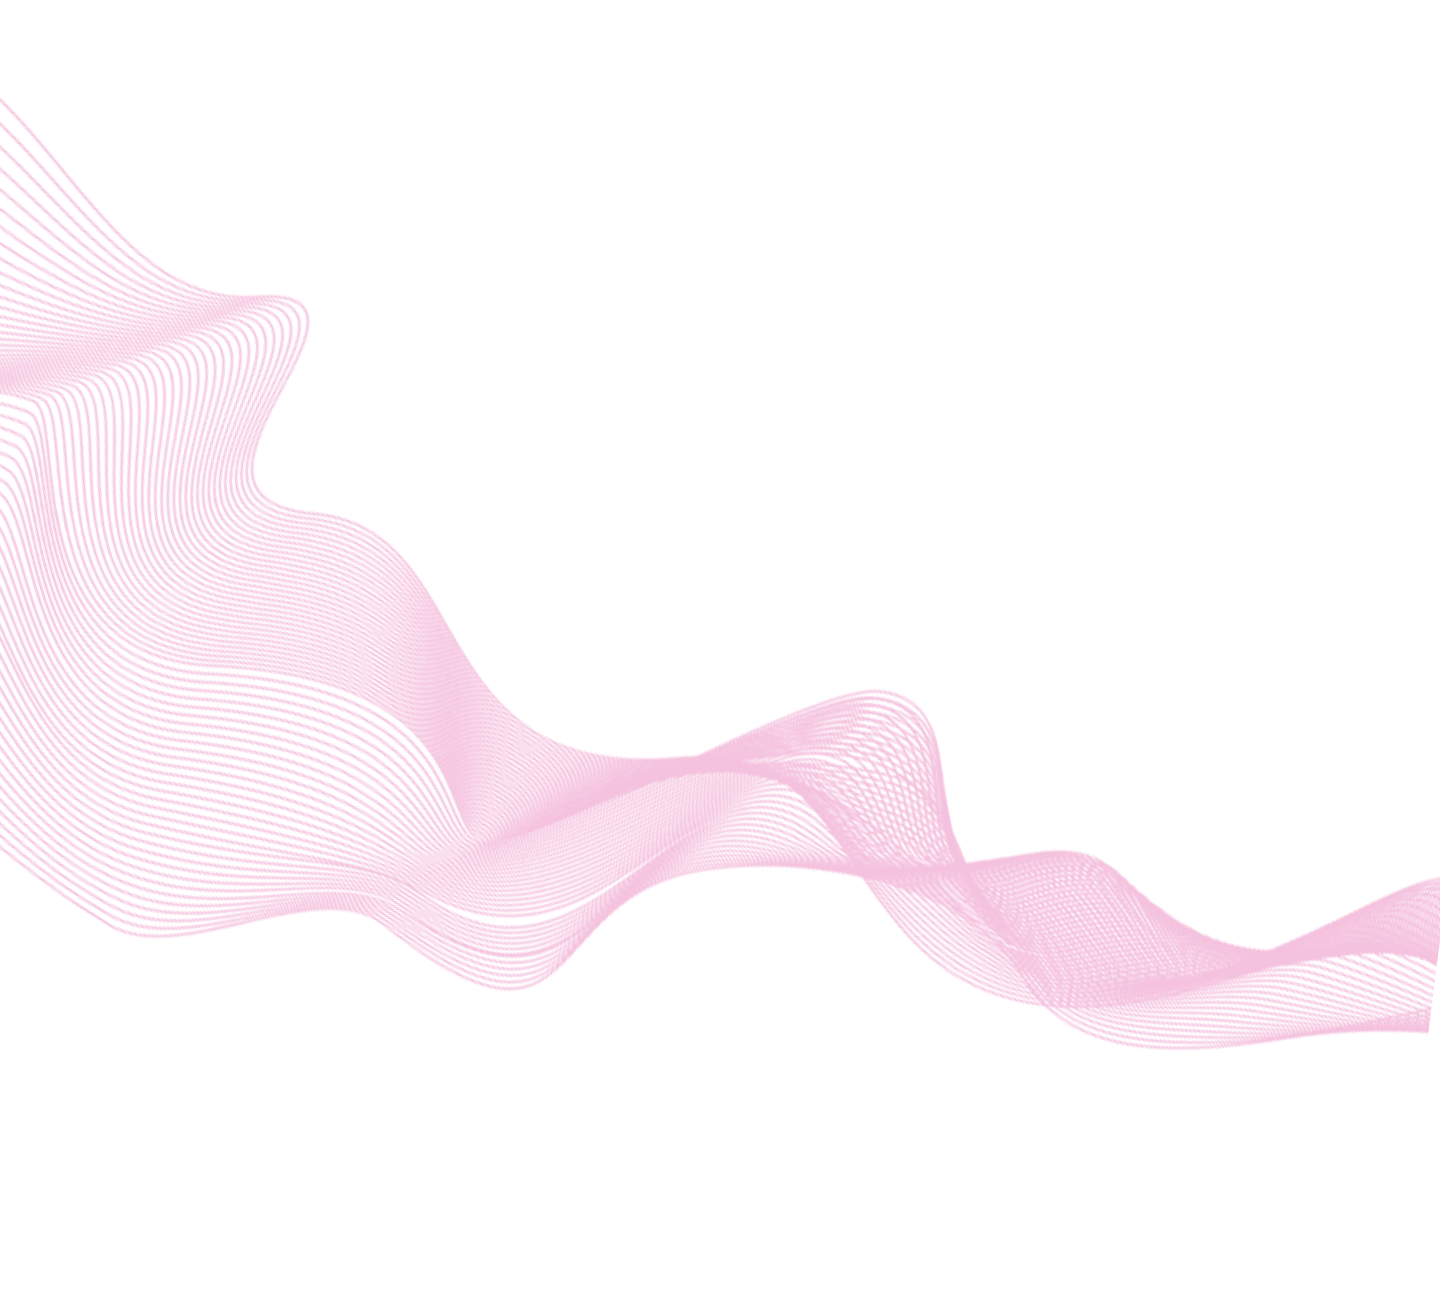
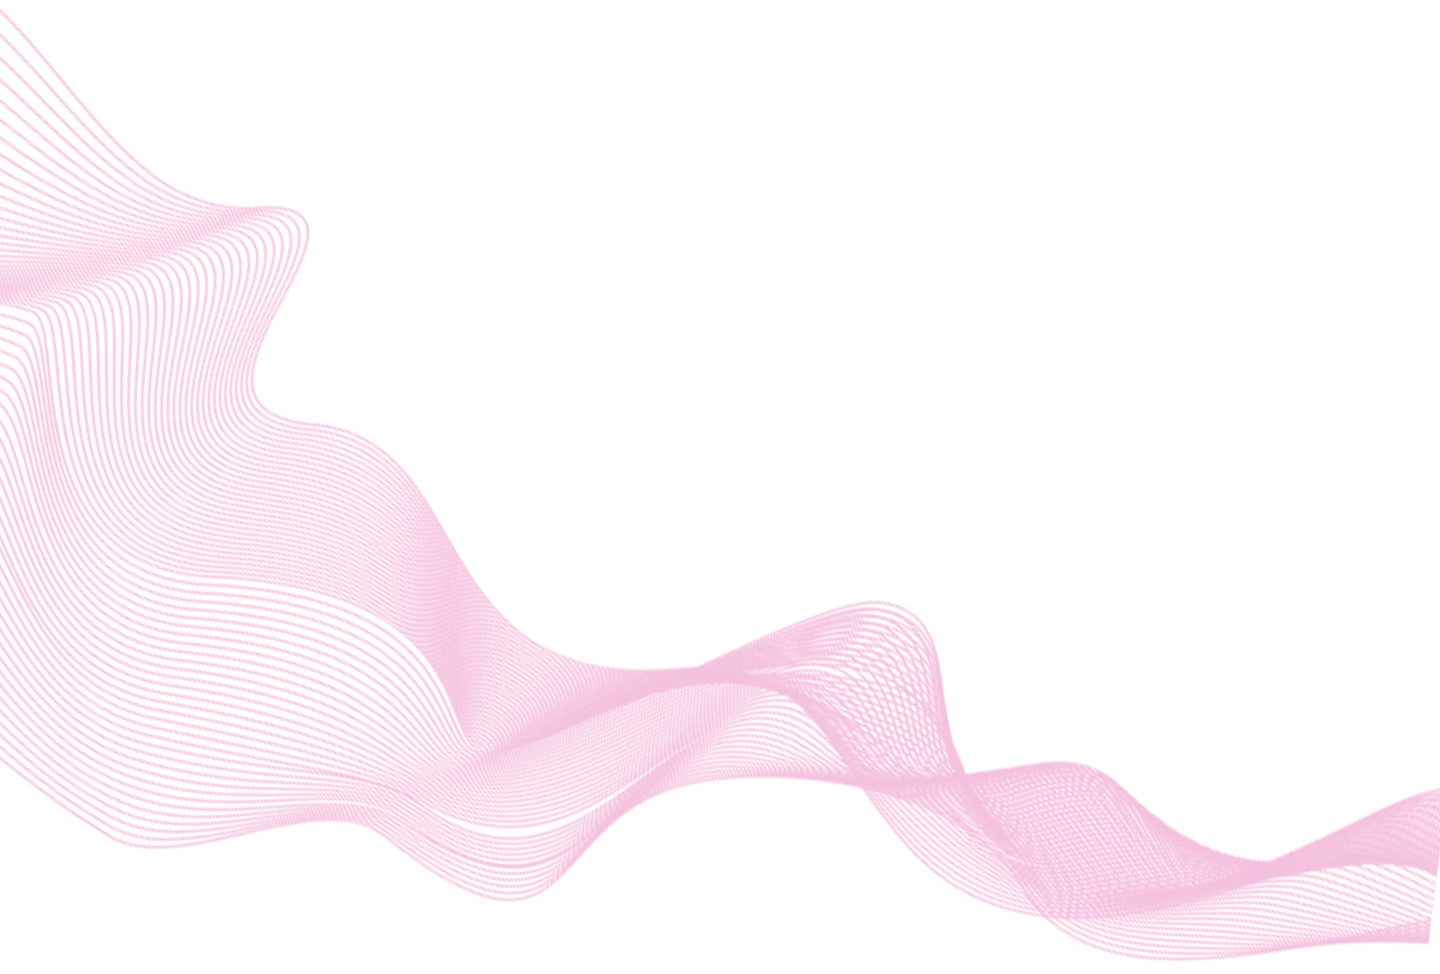
updated feedback for desktop view
commented out css for feedback that's not for mobile

Changed region(s): [[0.0, 0.0308, 1.0, 0.9856]]

diff --git a/_sass/decorations/feedback-mobile.sass b/_sass/decorations/feedback-mobile.sass
@@ -1,73 +1,73 @@
 //solidcircle_works
 #feedback-circles-1
-  width: 570px
-  height: 553px
-  left: 1229px
-  top: 710px
-  transform: translate(80%, -115%)
+  // width: 570px
+  // height: 553px
+  // left: 1229px
+  // top: 710px
+  // transform: translate(80%, -115%)
   @media (max-width: 800px)
     transform: translate(40%, -730%)
 
 //shallowcircle_works
 #feedback-circles-2
-  width: 242.83px
-  height: 235.77px
-  left: 28.89px
-  top: 170px
-  transform: rotate(49.73deg)
-  transform: translate(-50%,-60%)
+  // width: 242.83px
+  // height: 235.77px
+  // left: 28.89px
+  // top: 170px
+  // transform: rotate(49.73deg)
+  // transform: translate(-50%,-60%)
   @media (max-width: 800px)
     transform: translate(-100%, -120%)
 
 //shallowtriangle_works
 #feedback-triangles-1
-  width: 35%
-  top: 0
-  right: 0
-  z-index: 0
-  transform: translate(180%, -285%)
+  // width: 35%
+  // top: 0
+  // right: 0
+  // z-index: 0
+  // transform: translate(180%, -285%)
 
 #feedback-circles-3
-  width: 352px
-  height: 350px
-  left: 1153px
-  top: 1139px
-  bottom: 0
-  right: 0
-  z-index: -5
-  transform: translate(140%,-80%)
+  // width: 352px
+  // height: 350px
+  // left: 1153px
+  // top: 1139px
+  // bottom: 0
+  // right: 0
+  // z-index: -5
+  // transform: translate(140%,-80%)
 
 #feedback-circles-4
-  width: 20%
-  transform: translate(-50%,120%)
+  // width: 20%
+  // transform: translate(-50%,120%)
 
   @media (max-width: 800px)
     transform: translate(-50%, -120%)
 
 #feedback-triangles-2
-  width: 10%
-  bottom: -200px
-  left: 150px
-  z-index: 1
-  transform: translate(-70%, 150%)
+  // width: 10%
+  // bottom: -200px
+  // left: 150px
+  // z-index: 1
+  // transform: translate(-70%, 150%)
 
 #feedback-triangles-3
-  width: 10%
-  bottom: -200px
-  left: 150px
-  z-index: 0
-  transform: translate(590%, 130%)
+  // width: 10%
+  // bottom: -200px
+  // left: 150px
+  // z-index: 0
+  // transform: translate(590%, 130%)
 
 //ribbon works but too big?
 #feedback-ribbons-1
-  min-width: 111%
-  height: 130%
-  transform: translate(-5%, -10%)
+  // min-width: 111%
+  // height: 130%
+  // transform: translate(-5%, -10%)
 
 #feedback-ribbons-2
-  width: 100%
-  left: 0
-  transform: translate(-30%, 110%)
+  // width: 100%
+  // left: 0
+  // transform: translate(-30%, 110%)
 
   @media (max-width: 800px)
     min-width: max(110%, 130%)
@@ -75,22 +75,22 @@
     transform: translate(-8%, -60%)
 
 #feedback-circles-5
-  width: 15%
-  transform: translate(450%,-320%)
+  // width: 15%
+  // transform: translate(450%,-320%)
 
   @media (max-width: 800px)
     transform: translate(-40%, 120%)
 
 #feedback-circles-6
-  width: 352px
-  transform: translate(-70%,-150%)
+  // width: 352px
+  // transform: translate(-70%,-150%)
 
   @media (max-width: 800px)
     transform: translate(-50%, 150%)
 
 #feedback-triangles-4
-  width: 10%
-  bottom: -200px
-  left: 150px
-  z-index: 0
-  transform: translate(850%, -150%)
+  // width: 10%
+  // bottom: -200px
+  // left: 150px
+  // z-index: 0
+  // transform: translate(850%, -150%)

diff --git a/feedback.html b/feedback.html
@@ -46,11 +46,11 @@ permalink: '/questions_and_feedback/'
                 id="feedback-circles-2"
             />
             <img
-                src="{{site.baseurl}}/assets/img/decorations/feedback/triangles/3.png"
+                src="{{site.baseurl}}/assets/img/decorations/feedback/triangles/1.png"
                 alt=""
                 class="decorative"
-                id="feedback-triangles-3"
-            >
+                id="feedback-triangles-1"
+            />
             <img
                 src="{{site.baseurl}}/assets/img/decorations/feedback/circles/3.png"
                 alt=""
@@ -80,10 +80,10 @@ permalink: '/questions_and_feedback/'
                                     <i class="far fa-user"></i>
                                 </span>
                                 <img
-                                    src="{{site.baseurl}}/assets/img/decorations/feedback/triangles/1.png"
+                                    src="{{site.baseurl}}/assets/img/decorations/feedback/triangles/3.png"
                                     alt=""
                                     class="decorative"
-                                    id="feedback-triangles-1"
+                                    id="feedback-triangles-3"
                                 />
                             </div>
                         </div>
@@ -204,12 +204,12 @@ permalink: '/questions_and_feedback/'
                     </div>
                 </form>
             </div>
-            <img
+            <!-- <img
                 src="{{site.baseurl}}/assets/img/decorations/feedback/ribbons/2.png"
                 alt=""
                 class="decorative"
-                id="#feedback-ribbons-2"
-            />
+                id="feedback-ribbons-2"
+            /> -->
             <img
                 src="{{site.baseurl}}/assets/img/decorations/feedback/circles/6.png"
                 alt=""

diff --git a/_sass/custom/feedback-decorations.sass b/_sass/custom/feedback-decorations.sass
@@ -1,11 +1,11 @@
-#circle-outline-pink
+#feedback-circles-1
     top: 17%
     left: 0
 
     width: Max(15%, 200px)
     transform: translateX(-45%)
 
-#circle-solid-bigger
+#feedback-circles-2
     top: 12%
     right: 0
 
@@ -16,7 +16,7 @@
         top: 30%
     
 
-#fb-triangle-blue-outline
+#feedback-triangles-1
     top: 50%
     right: 0
 
@@ -25,13 +25,7 @@
     @media (max-width: 800px)
         top: 70%
 
-#fb-multicloth
-    top: 100%
-    left: 0
-
-    transform: translateY(-50%)
-
-#fb-circle-solid-bottom
+#feedback-circles-3
     top: 100%
     right: 0
 
@@ -41,30 +35,30 @@
     @media (max-width: 800px)
         transform: translateY(0)
 
-#fb-pink-ribbon
+#feedback-ribbons-1
     pointer-events: none
     top: 0
     left: 0
 
     width: 100%
-    height: 100%
+    height: 120%
     z-index: -1
 
-#fb-circle-solid-question
+#feedback-circles-4
     bottom: -10%
     left: 0
 
     width: Max(20%, 300px)
     transform: translateX(-50%) 
 
-#fb-triangle-solid-question
+#feedback-triangles-2
     top: 20%
     left: 0
 
     width: 200px
     transform: translateX(-50%)
 
-#fb-triangle-outline-question
+#feedback-triangles-3
     bottom: 0
     left: 100%
 
@@ -72,26 +66,26 @@
     transform: translateX(-50%)
     z-index: -1
 
-#fb-blue-ribbon-question
+#feedback-ribbons-2
     pointer-events: none
-    top: 0
+    top: 15%
     left: 0
 
     z-index: -1
 
-#fb-circle-solid-opinion
+#feedback-circles-6
     top: 50%
     left: 0%
 
     transform: translateX(-50%)
 
-#fb-triangle-solid-opinion
+#feedback-triangles-4
     top: 70%
     right: 0
 
     transform: translateX(50%)
 
-#fb-circle-outline-opinion
+#feedback-circles-5
     top: 20%
     right: 0
 
